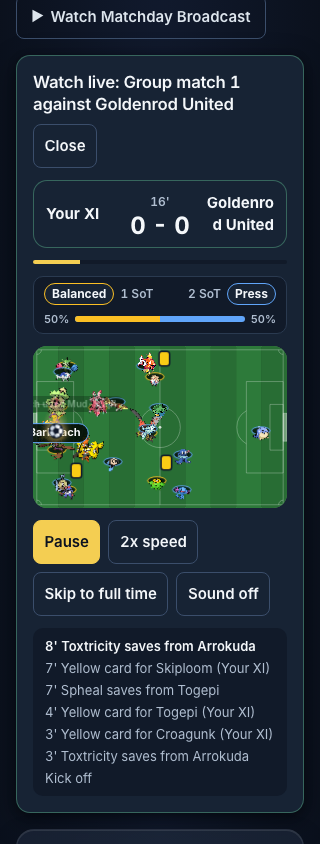
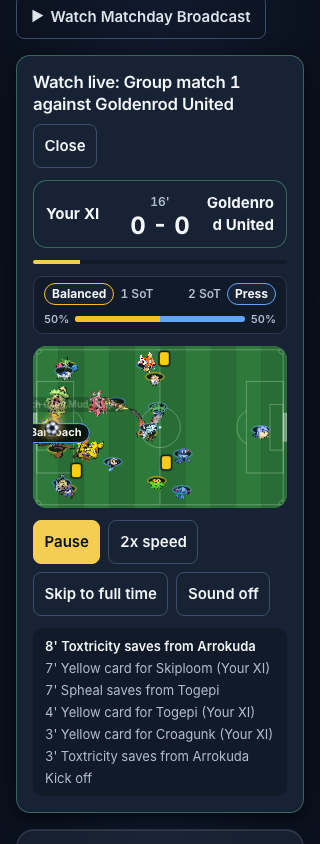
docs(state): callouts and type effects
Claude-Session: https://claude.ai/code/session_01MQWZLpWyCywZCsjVuuffWk

diff --git a/docs/decisions/callouts-type-effects.md b/docs/decisions/callouts-type-effects.md
@@ -1,0 +1,107 @@
+# Callouts and type effects
+
+Wave 2 row 2g, Yellow, size M. Branch `feat/callouts-type-effects` off `fe6d183`.
+
+## Scope
+
+- `src/ui/matchday/timeline.ts`: each open-play phase gets a `moment` (`through`, `cross`,
+  `key-duel`, `build-up` or null), set exactly when it carries a callout. Candidates are through
+  balls and crosses received in the final third (formation slot `y >= 70`), duels in a phase that
+  holds a goal or a save, and 15% of passes and dribbles. A callout needs 5 minutes since the last
+  one; key duels skip that gap. The build-up roll is the same `playRng` draw the old 45% rule made,
+  so the choreography is unchanged (the 1a pinned phases still match). The callout stream now draws
+  once every phase, so a phase's call never depends on which other phases fire, and still never on
+  the movesets.
+- `src/ui/matchday/moves.ts`: `Effect` is any of the 18 types plus `impact`, `shield` and `dive`.
+  `effectFor` returns the move's own type. The partial `TYPE_EFFECT` table is gone, since every
+  type is now its own effect.
+- `src/components/wheel/sound.ts`: `playAbilitySound` maps 21 effects onto ten synth families
+  (flame, tide, spark, bloom, frost, mind, quake, strike, guard, dive). The nine existing tones
+  are unchanged; `quake` is new for Ground and Rock.
+- `src/ui/matchday/cutin.ts` (new): `cutInAt` returns a card only for a goal (from 25% of its
+  staging, the old move-callout timing), a save, or a key-duel phase.
+- `Broadcast.tsx` and its CSS: a lower-third card with `PlayerImage`, the move line and a
+  `TypeIcon` badge. The twelve types without a tuned effect draw in their `TYPE_PALETTE` colour,
+  passed as `--type-*` variables. The card keeps the `move-callout` and `save-callout` test ids.
+  Below a 300px broadcast the type name is visually hidden and the icon stays.
+- `MatchPlayer.tsx`: `cutIns={view === "live"}`. Quick keeps its plain goal and save lines.
+
+## RED
+
+Commit `e6401fe`. `pnpm vitest run` on the five touched test files: 9 failed, 53 passed of 62.
+
+```
+× gives every one of the 18 types its own effect family (catches Dragon and Ghost moves drawn as a plain impact)
+  AssertionError: expected [ 'impact', 'fire', 'water', …(15) ] to deeply equal [ 'normal', 'fire', 'water', …(15) ]
+× plays a synth family for every type and generic effect, ten families in all (catches a Dragon move that throws instead of sounding)
+  TypeError: Cannot read properties of undefined (reading 'type')
+× a pinned seed yields between 10 and 18 open-play callouts (60 before the budget)
+  AssertionError: expected 60 to be less than or equal to 18
+× calls a move only on final-third through balls, crosses, key duels and build-up
+  AssertionError: expected 55 to be less than or equal to 18
+× shows the scorer's sprite, move and type on a goal
+× shows the keeper's move on a save, a shot on target
+× shows the duel winner on the key duel that sets up the 40' goal
+× still shows the goal card, unanimated, with reduced motion in a live match
+  TypeError: Cannot read properties of null (reading 'getAttribute')
+× Quick shows no cut-in through the 30' goal, while Live shows the goal card
+  AssertionError: expected 0 to be greater than 0
+```
+
+The three negative cut-in checks (ordinary callout, card, Quick) passed at RED, as constraints
+should.
+
+## Measurements
+
+Real cups: `cup8`, formations 4-2-3-1, 4-3-3 and 4-4-2, seeds `a1` to `f6`, every pick the first
+offer, movesets loaded. 84 matches of 90 minutes.
+
+| Open-play callouts per match | mean  | min | p10 | median | p90 | max |
+| ---------------------------- | ----- | --- | --- | ------ | --- | --- |
+| Before (`fe6d183`)           | 54.83 | 47  | 50  | 55     | 60  | 61  |
+| After                        | 13.81 | 8   | 11  | 14     | 16  | 18  |
+
+Pinned seed (`a1`, 4-2-3-1, match 1): 60 before, 12 after (3 key duels, 4 through balls, 1 cross,
+4 build-up). The gap came from a scratch model over the same cups (86 matches, extra time
+included, a fixed hash standing in for the build-up roll): no gap gave a mean of 25.49, 2 phases
+19.80, 3 phases 16.36, 4 phases (5 minutes) 14.12, 5 phases 12.92. Matches with extra time run
+longer and reach about 20.
+
+## Product decisions applied
+
+- Decision 12: about 12 to 15 callouts per match, every type with a visual and an audio family,
+  big cards only on shots on target, goals, saves and key duels.
+- Decision 1: Quick renders no card and no per-phase sound. Reduced motion shows the card without
+  animation (`animation-name: none`, checked in Chromium).
+
+## Brief versus code
+
+- Shots on target: the engine records goals and saves only, and the HUD's SoT counts exactly
+  those. So "shots on target, goals, saves" is goals plus saves.
+- "Extend `TYPE_EFFECT`": the table became redundant once `Effect` includes every type, so it was
+  removed rather than filled with 18 identity rows.
+- Palettes: the six tuned effects (fire, water, electric, grass, ice, psychic) keep their existing
+  `--fx-*` tokens. The other twelve take `TYPE_PALETTE`.
+
+## Gates
+
+At `f755466` (after merging `origin/main` at `e7f2012`): lint, typecheck and build exit 0, 1,421
+unit tests pass in 161 files, and the Playwright set in `STATE.md` passes 383 with 54 skipped.
+
+`e2e/one-shared-timeline.spec.ts` waited 60 s for a badge of one of the six old effects. With about
+14 callouts a match, a run at `0543f18` failed that wait twice. It now accepts any of the 18 types
+and fingerprints the new quake family, and passed in 32 s.
+
+## Carryovers
+
+- Reduced motion stages no open play (pre-existing `stagePitch` still branch), so key-duel cards
+  and pitch badges never show there. Goal and save cards do.
+- A pitch badge on a player near the touchline can clip at the pitch edge (seen in
+  `390-callout-badge.png`). Pre-existing badge placement, not changed here.
+
+## NOT RUN
+
+- Typecheck at the RED commit (the tests use the new `cutIns` prop and `moment` field, so it is
+  expected to fail there).
+- Full local Playwright suite (hosted CI runs it). Physical phone check, iOS Safari audio included.
+- Independent review and GLM: the coordinator runs them.

diff --git a/STATE.md b/STATE.md
@@ -3,6 +3,26 @@
 Measured ground truth. Each PR's section cites its reviewed head and the gates run there; the merge
 and its squash SHA are recorded in the next PR's STATE update.
 
+## Callouts and type effects
+
+Branch `feat/callouts-type-effects` off `fe6d183`, with `origin/main` merged in at `e7f2012` (PR #88). UI and synthesized audio only (Yellow). No file under `src/engine`, `src/data` or `src/scouting` changed. Merge status, the squash SHA and the reviewer receipt go into the next STATE update.
+
+- A live match calls a move only on big moments: final-third through balls, crosses into the box, key duels that win the ball for a goal or a save, and 15% of build-up, at least 5 minutes apart (key duels exempt). Real cups average 13.81 open-play callouts a match, down from 54.83 (84 matches of 90 minutes).
+- Every one of the 18 types draws its own effect colour (the twelve without a tuned effect take `TYPE_PALETTE`) and sounds in one of ten synthesized families.
+- Goals, saves and key duels get a lower-third card with the sprite, the move and a type badge. Quick shows no card and no per-phase sound. Reduced motion shows the card without animation.
+
+RED commit: `e6401fe` (9 of 62 failed in the five touched test files; the pinned seed gave 60 callouts).
+
+Gates at `f755466`:
+
+- Lint, typecheck and build exited 0. Prettier passed on every touched file.
+- Unit tests: 1,421 passed in 161 files.
+- Playwright (`PLAYWRIGHT_PORT=3523 CI=1`): `callouts-type-effects`, `one-shared-timeline`, `score-lands-with-ball`, `speed-aware-staging`, `manager-mode`, `audio-polish`, `mobile-targets` and `mobile-acceptance`: 383 passed, 54 skipped, 0 failed.
+- Pinned seed (`a1`, 4-2-3-1, match 1): 12 open-play callouts (was 60).
+- Full local Playwright suite, physical phone check and review: NOT RUN.
+
+Browser proof: `docs/reports/callouts-type-effects/` (goal cut-in and callout badge at 390, 360 and 320, and the reduced-motion goal card at 390). Measurements and decisions are in `docs/decisions/callouts-type-effects.md`.
+
 ## Audio polish
 
 Branch `feat/audio-polish` off `fe6d183`. UI and synthesized audio only (Yellow). No file under `src/engine`, `src/data` or `src/scouting` changed. Merge status, the squash SHA and the reviewer receipt go into the next STATE update.
